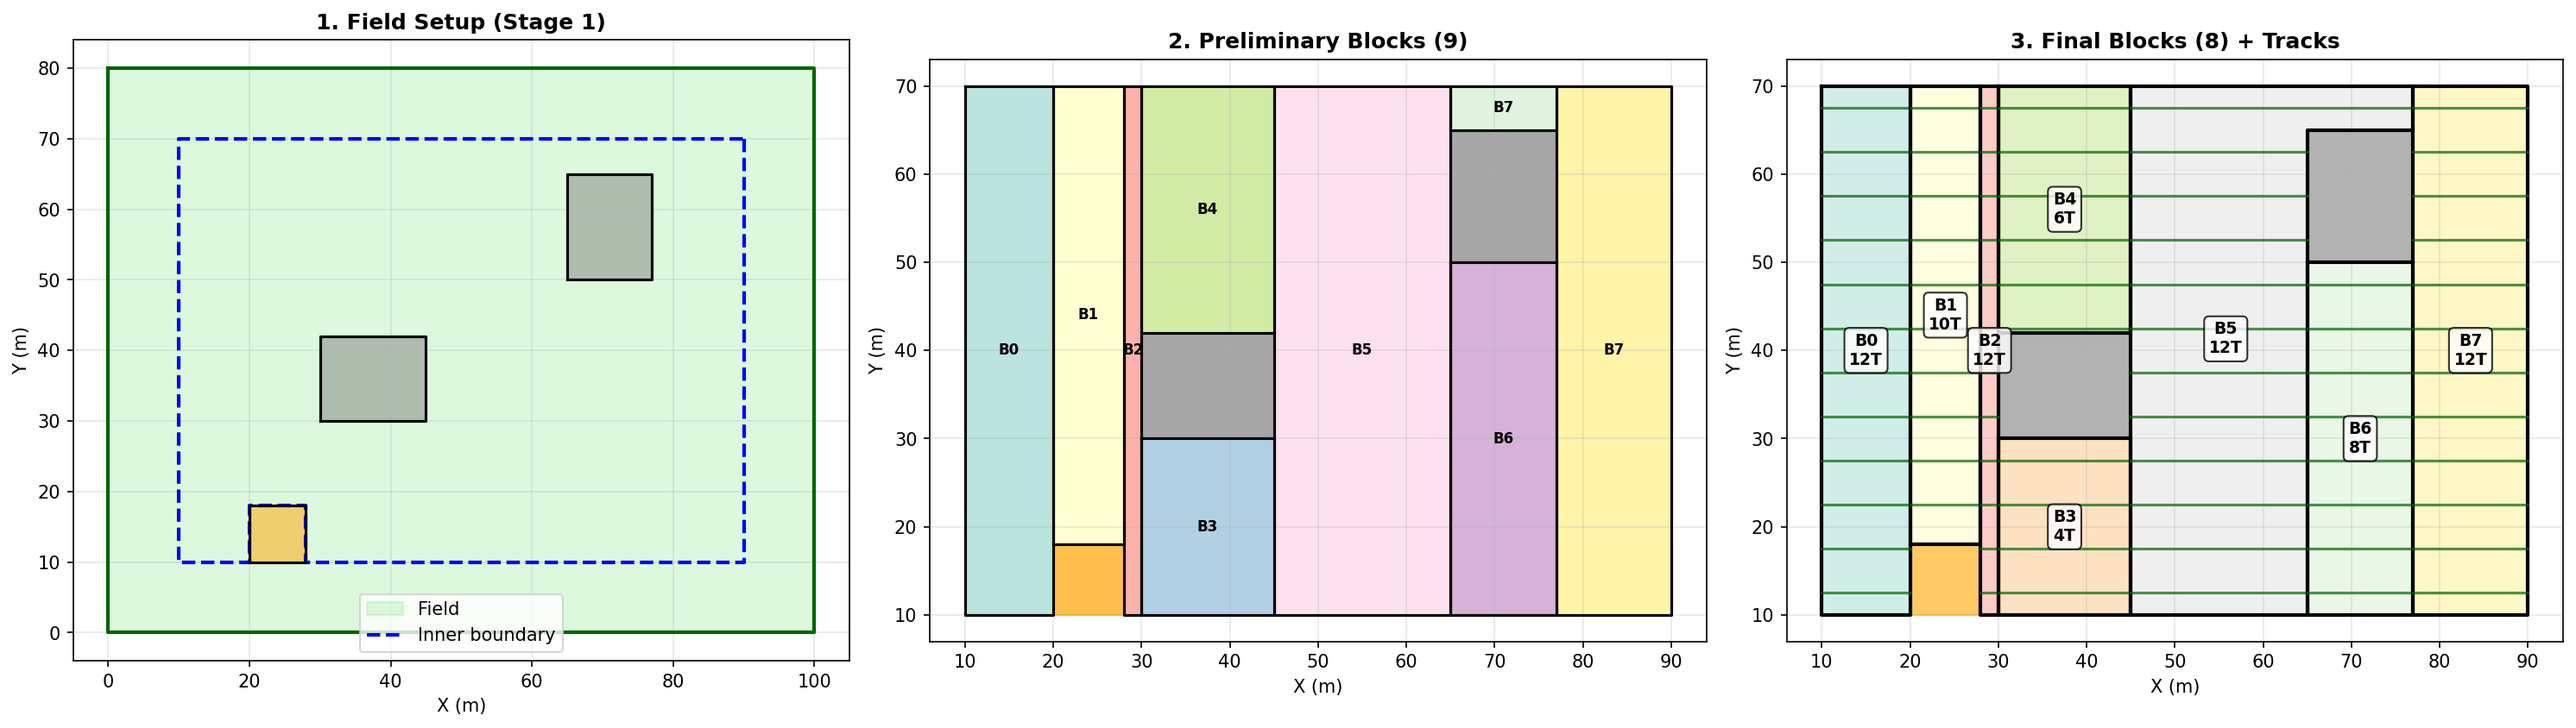
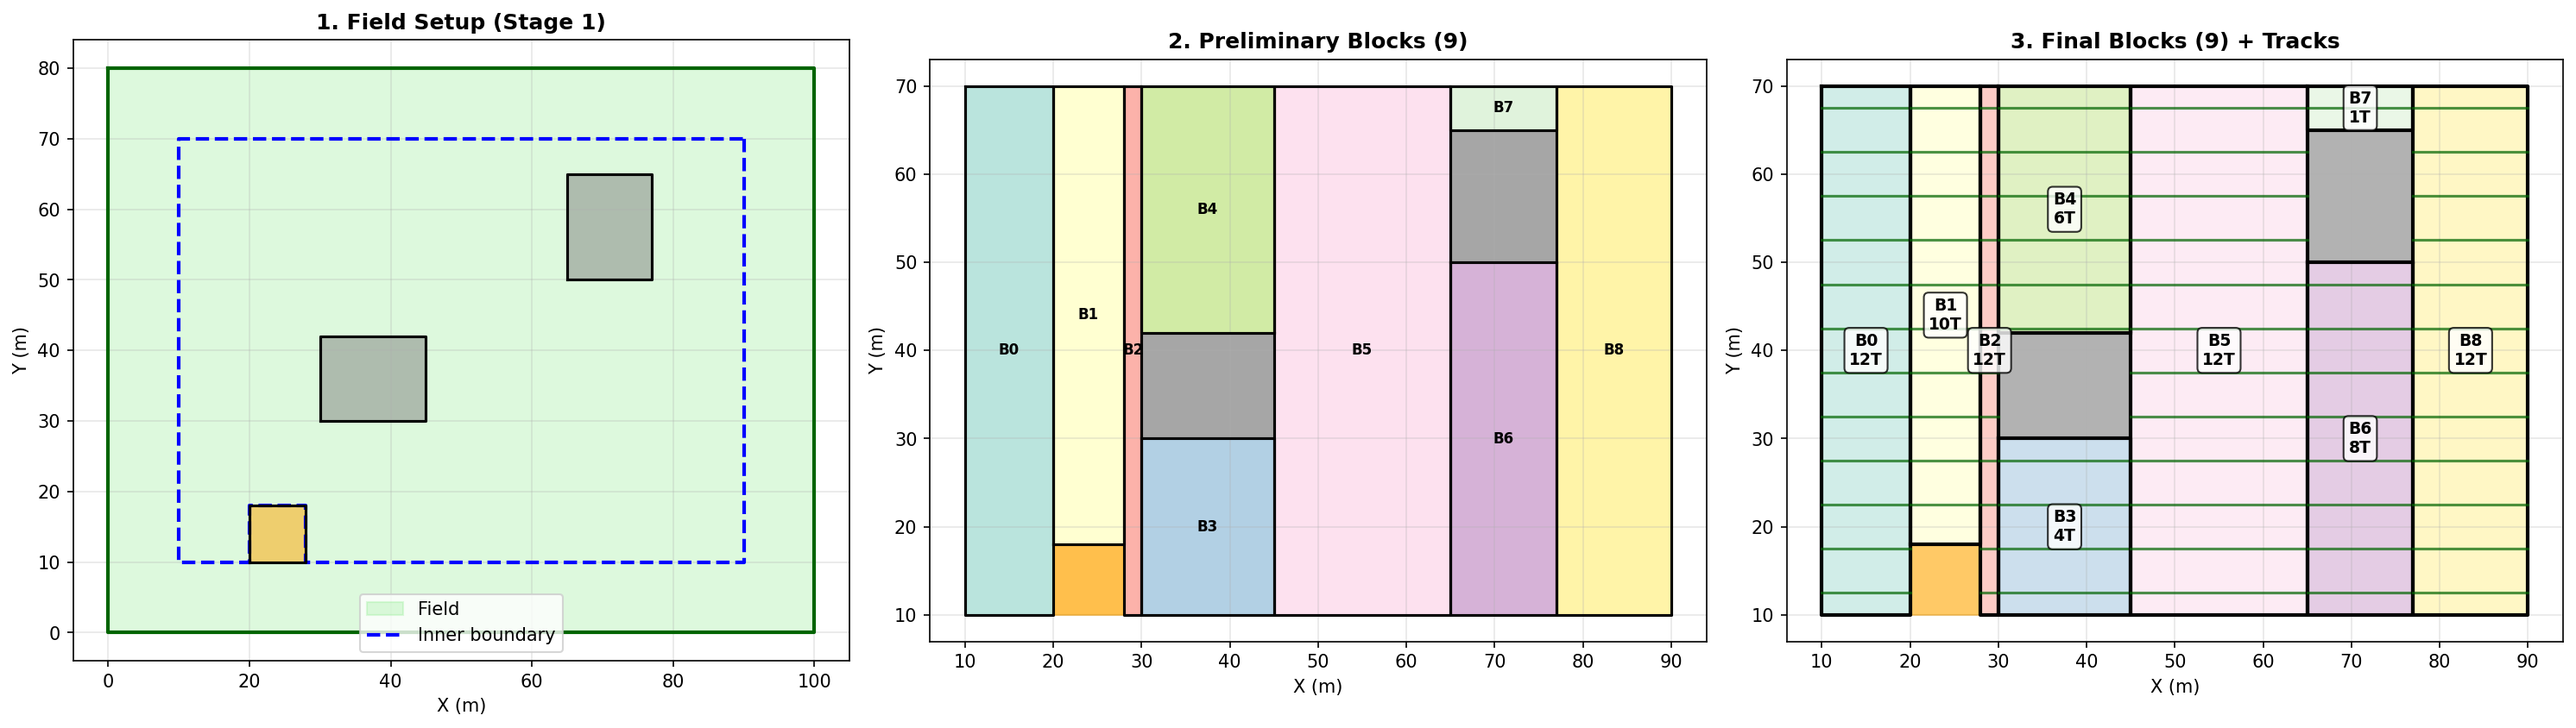
Stage 3: Fix cross obstacle type D

Changed region(s): [[0.8415, 0.3389, 0.935, 0.8626], [0.7792, 0.5853, 0.8415, 0.8626], [0.9038, 0.1232, 0.935, 0.1848]]

diff --git a/src/decomposition/track_clustering.py b/src/decomposition/track_clustering.py
@@ -145,14 +145,113 @@ def is_track_inside_block(track: Track, block: Block, tolerance: float = 0.1) ->
     return block.polygon.buffer(tolerance).contains(midpoint)
 
 
+def subdivide_tracks_at_obstacles(
+    blocks: List[Block],
+    obstacle_polygons: List
+) -> List[Block]:
+    """
+    Further subdivide tracks within blocks based on block polygon shape.
+
+    This addresses the notch problem where tracks at different y-coordinates
+    have different x-extents due to obstacles intruding into the block.
+    Without this subdivision, boustrophedon connections can cross obstacles.
+
+    Strategy: For each track, find the intersection of the track line with the
+    block polygon boundary. If the track enters/exits the block polygon at points
+    other than its start/end, subdivide it there to ensure all track segments
+    respect the block's actual boundaries (including notches).
+
+    Args:
+        blocks: Blocks with initially clustered tracks
+        obstacle_polygons: List of Shapely polygons representing obstacles
+
+    Returns:
+        List of blocks with tracks subdivided at block boundary transitions
+    """
+    from shapely.ops import unary_union
+
+    if not obstacle_polygons:
+        return blocks
+
+    obstacles_union = unary_union(obstacle_polygons)
+
+    for block in blocks:
+        if not block.tracks:
+            continue
+
+        subdivided_tracks = []
+
+        for track in block.tracks:
+            track_line = LineString([track.start, track.end])
+
+            # Find where the track intersects with the block's internal boundaries
+            # (caused by obstacle notches)
+            # We do this by finding gaps in the track when intersected with the block polygon
+            track_within_block = track_line.intersection(block.polygon)
+
+            # If the intersection is a simple LineString, the track is fully within the block
+            if track_within_block.geom_type == 'LineString':
+                # Check if it crosses an obstacle
+                obs_intersection = track_line.intersection(obstacles_union)
+                if obs_intersection.is_empty or obs_intersection.geom_type == 'Point':
+                    # No obstacle crossing, keep track as is
+                    subdivided_tracks.append(track)
+                elif obs_intersection.geom_type in ['LineString', 'MultiLineString']:
+                    # Track crosses obstacle - need to remove this track
+                    # (it will be subdivided by the intersection with block polygon)
+                    if hasattr(obs_intersection, 'length') and obs_intersection.length < 0.01:
+                        # Just touching
+                        subdivided_tracks.append(track)
+                    # else: crosses obstacle, skip it
+                continue
+
+            # If intersection is MultiLineString, the track crosses in/out of the block
+            # (due to obstacle notches) - subdivide into segments
+            if track_within_block.geom_type == 'MultiLineString':
+                for segment_geom in track_within_block.geoms:
+                    if segment_geom.length < 0.01:  # Skip tiny segments
+                        continue
+
+                    coords = list(segment_geom.coords)
+                    if len(coords) >= 2:
+                        segment = Track(
+                            start=coords[0],
+                            end=coords[-1],
+                            index=track.index,
+                            block_id=track.block_id
+                        )
+
+                        # Double-check this segment doesn't cross obstacles
+                        segment_line = LineString([segment.start, segment.end])
+                        obs_check = segment_line.intersection(obstacles_union)
+
+                        if obs_check.is_empty or obs_check.geom_type == 'Point':
+                            subdivided_tracks.append(segment)
+                        elif obs_check.geom_type in ['LineString', 'MultiLineString']:
+                            if hasattr(obs_check, 'length') and obs_check.length < 0.01:
+                                subdivided_tracks.append(segment)
+                            # else: crosses obstacle, skip
+                continue
+
+            # For other geometry types (Point, empty), skip
+            if not track_within_block.is_empty and track_within_block.geom_type not in ['Point', 'MultiPoint']:
+                subdivided_tracks.append(track)
+
+        # Update block's tracks with subdivided version
+        block.tracks = subdivided_tracks
+
+    return blocks
+
+
 def cluster_tracks_into_blocks(
     global_tracks: List[Track],
-    blocks: List[Block]
+    blocks: List[Block],
+    obstacle_polygons: List = None
 ) -> List[Block]:
     """
     Cluster global tracks into blocks by subdivision and assignment.
 
-    Algorithm from paper (Section 2.3.2):
+    Algorithm from paper (Section 2.3.2) with enhancement:
     1. Input: Set T of global tracks (from Stage 1, ignoring obstacles)
     2. Input: Set B of block areas (from boustrophedon decomposition)
     3. For each track i ∈ T:
@@ -160,10 +259,13 @@ def cluster_tracks_into_blocks(
           - If track intersects block boundary, subdivide into segments
           - Check each segment: is it inside block j?
           - If yes, assign segment to block j's track set
+    4. [ENHANCEMENT] Further subdivide tracks at obstacle boundaries within blocks
+       to prevent inter-track connections from crossing obstacles
 
     Args:
         global_tracks: Tracks generated in Stage 1 (ignoring obstacles)
         blocks: Blocks from boustrophedon decomposition
+        obstacle_polygons: Optional list of obstacle polygons for within-block subdivision
 
     Returns:
         List of blocks with tracks assigned (modifies blocks in-place)
@@ -172,6 +274,7 @@ def cluster_tracks_into_blocks(
         - Original global tracks may be subdivided into multiple segments
         - Each segment is assigned to exactly one block
         - Segments keep their original track index for continuity
+        - Additional subdivision at obstacle boundaries prevents crossing issues
     """
     # Initialize each block's track list
     for block in blocks:
@@ -201,6 +304,11 @@ def cluster_tracks_into_blocks(
                         newly_unassigned.append(subseg)
 
             unassigned_segments = newly_unassigned
+
+    # ENHANCEMENT: Further subdivide tracks at obstacle boundaries within blocks
+    # This prevents boustrophedon connections from crossing obstacles
+    if obstacle_polygons:
+        blocks = subdivide_tracks_at_obstacles(blocks, obstacle_polygons)
 
     # Re-index tracks within each block for sequential ordering
     for block in blocks:

diff --git a/src/decomposition/block_merger.py b/src/decomposition/block_merger.py
@@ -105,7 +105,7 @@ def calculate_merge_cost(block1: Block, block2: Block) -> float:
         block2: Second block
 
     Returns:
-        Merge cost (lower is better)
+        Merge cost (lower is better), or float('inf') if merge violates constraints
     """
     # Merge the blocks to evaluate the result
     merged_poly = block1.polygon.union(block2.polygon)
@@ -118,6 +118,14 @@ def calculate_merge_cost(block1: Block, block2: Block) -> float:
     convex_hull = merged_poly.convex_hull
     convexity_ratio = merged_poly.area / convex_hull.area if convex_hull.area > 0 else 0
     convexity_cost = 1.0 - convexity_ratio  # 0 = perfectly convex, 1 = very concave
+
+    # CONSTRAINT: Reject highly concave merges that would create problematic shapes
+    # This prevents merging blocks where boustrophedon connections might cross obstacles
+    # Convexity ratio < 0.85 means the merged block is too concave (loses >15% to convex hull)
+    # This threshold is conservative to ensure safe boustrophedon traversal
+    MIN_CONVEXITY_RATIO = 0.85
+    if convexity_ratio < MIN_CONVEXITY_RATIO:
+        return float('inf')  # Reject this merge
 
     # Cost factor 2: Area imbalance
     # Prefer merging blocks of similar size

diff --git a/examples/stage3_optimization.py b/examples/stage3_optimization.py
@@ -336,8 +336,9 @@ def run_demo():
     )
 
     # Cluster global tracks into blocks (Section 2.3.2)
+    # Pass all_obstacles to enable subdivision at obstacle boundaries within blocks
     print(f"\n[2.5/5] Clustering {len(global_tracks)} global tracks into {len(final_blocks)} blocks...")
-    final_blocks = cluster_tracks_into_blocks(global_tracks, final_blocks)
+    final_blocks = cluster_tracks_into_blocks(global_tracks, final_blocks, all_obstacles)
 
     total_track_segments = sum(len(block.tracks) for block in final_blocks)
     print(f"  ✓ Created {total_track_segments} track segments across {len(final_blocks)} blocks")

diff --git a/examples/stage2_decomposition.py b/examples/stage2_decomposition.py
@@ -214,7 +214,8 @@ def visualize_stage2_pipeline():
         print(f"  - Blocks: {len(final_blocks)}")
 
         # Cluster global tracks into blocks (Section 2.3.2 of paper)
-        final_blocks = cluster_tracks_into_blocks(global_tracks, final_blocks)
+        # Pass all_obstacles to enable subdivision at obstacle boundaries within blocks
+        final_blocks = cluster_tracks_into_blocks(global_tracks, final_blocks, all_obstacles)
 
         # Get clustering statistics
         clustering_stats = get_track_clustering_statistics(final_blocks, global_tracks)
